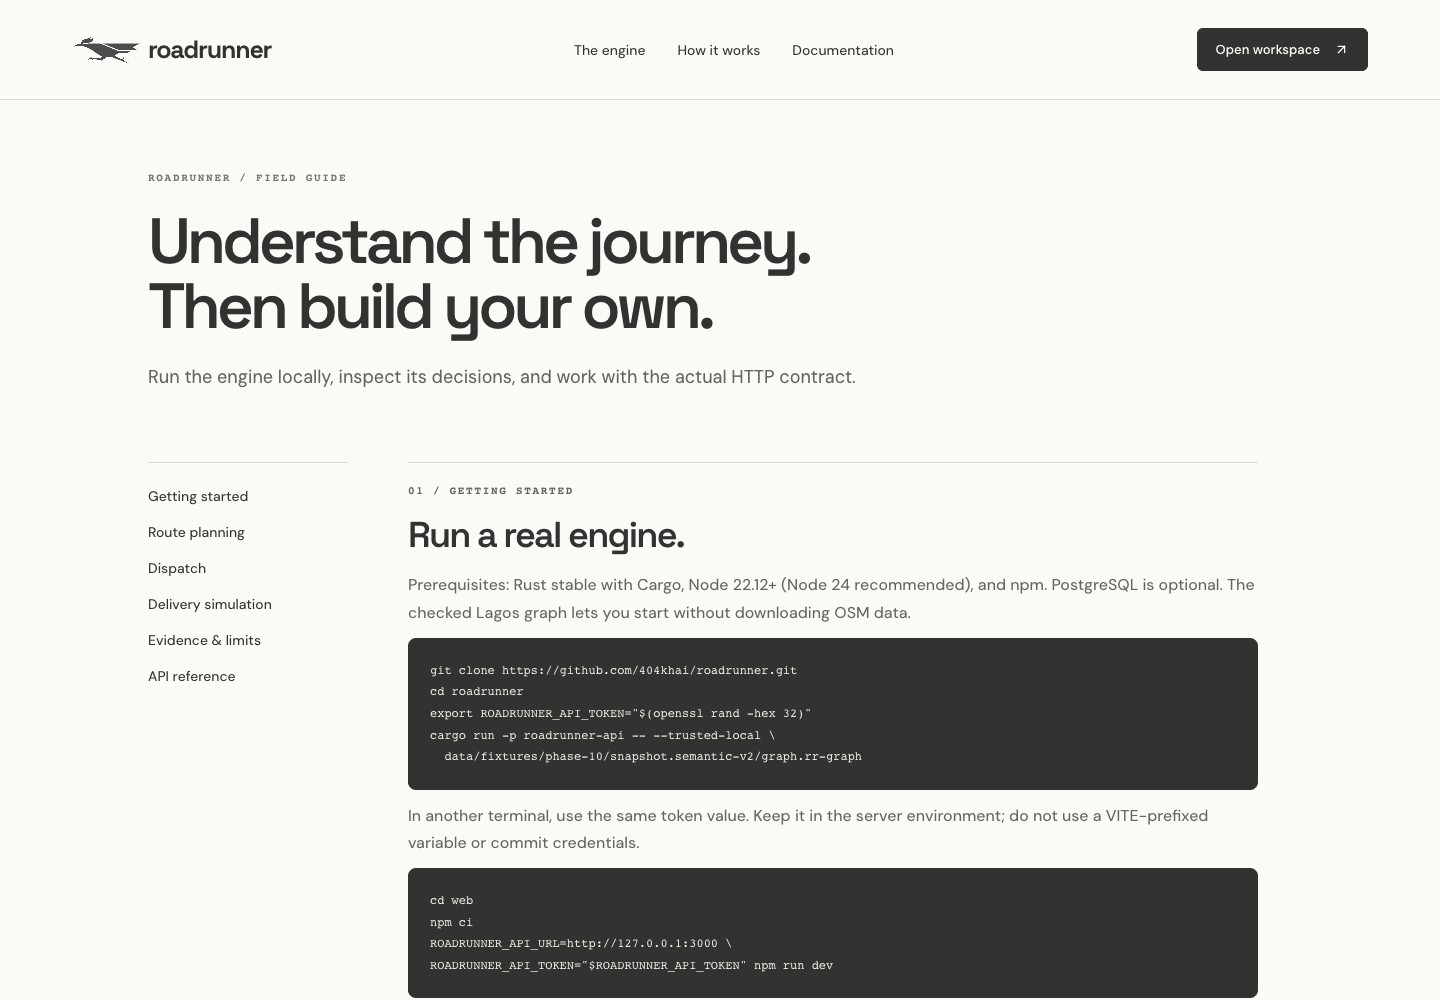
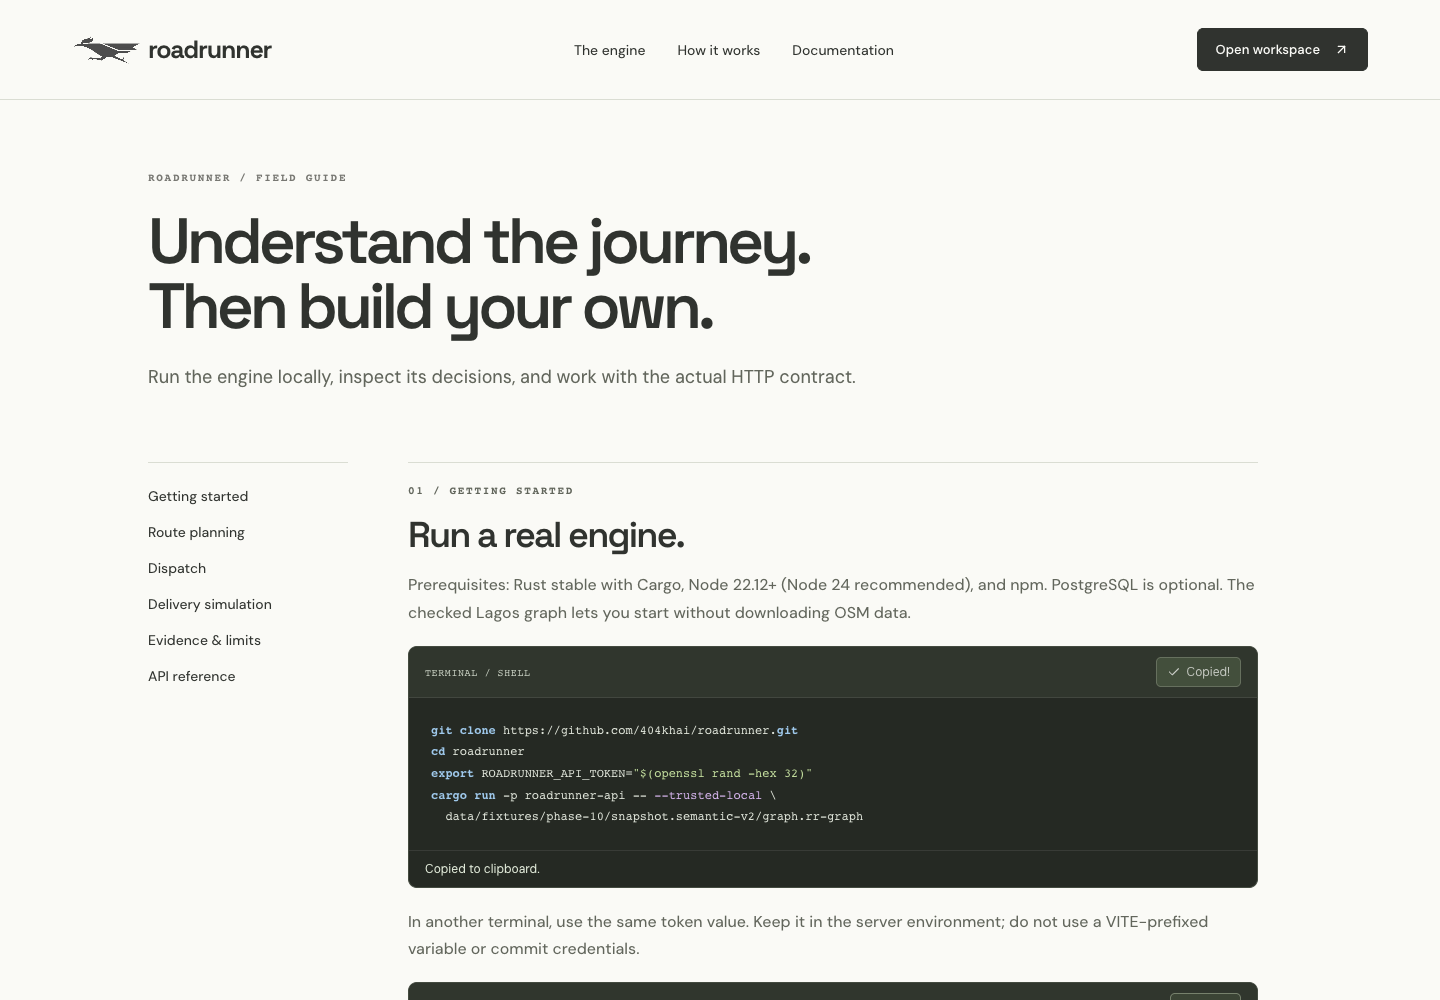
feat(docs): add syntax colors and copy controls

Changed region(s): [[0.2812, 0.62, 0.875, 1.0]]

diff --git a/web/src/Documentation.tsx b/web/src/Documentation.tsx
@@ -1,4 +1,5 @@
 import { useEffect, useState } from "react";
+import { CodeBlock } from "./CodeBlock";
 const repository = "https://github.com/404khai/roadrunner";
 type OpenApi = {
   paths: Record<
@@ -73,25 +74,21 @@ export function Documentation() {
               recommended), and npm. PostgreSQL is optional. The checked Lagos
               graph lets you start without downloading OSM data.
             </p>
-            <pre>
-              <code>
-                {
-                  'git clone https://github.com/404khai/roadrunner.git\ncd roadrunner\nexport ROADRUNNER_API_TOKEN="$(openssl rand -hex 32)"\ncargo run -p roadrunner-api -- --trusted-local \\\n  data/fixtures/phase-10/snapshot.semantic-v2/graph.rr-graph'
-                }
-              </code>
-            </pre>
+            <CodeBlock language="shell">
+              {
+                'git clone https://github.com/404khai/roadrunner.git\ncd roadrunner\nexport ROADRUNNER_API_TOKEN="$(openssl rand -hex 32)"\ncargo run -p roadrunner-api -- --trusted-local \\\n  data/fixtures/phase-10/snapshot.semantic-v2/graph.rr-graph'
+              }
+            </CodeBlock>
             <p>
               In another terminal, use the same token value. Keep it in the
               server environment; do not use a VITE-prefixed variable or commit
               credentials.
             </p>
-            <pre>
-              <code>
-                {
-                  'cd web\nnpm ci\nROADRUNNER_API_URL=http://127.0.0.1:3000 \\\nROADRUNNER_API_TOKEN="$ROADRUNNER_API_TOKEN" npm run dev'
-                }
-              </code>
-            </pre>
+            <CodeBlock language="shell">
+              {
+                'cd web\nnpm ci\nROADRUNNER_API_URL=http://127.0.0.1:3000 \\\nROADRUNNER_API_TOKEN="$ROADRUNNER_API_TOKEN" npm run dev'
+              }
+            </CodeBlock>
             <p>
               Open the Vite URL shown in the terminal. Landing demos replay
               retained engine output without an API. Open a workspace to compute
@@ -262,13 +259,11 @@ export function Documentation() {
               do not infer a write request from a read response.
             </p>
             <h3>First request</h3>
-            <pre>
-              <code>
-                {
-                  'curl http://127.0.0.1:3000/v1/state \\\n  -H "Authorization: Bearer $ROADRUNNER_API_TOKEN"\n\n# Inspect graph-bound anchors before building a route request\ncurl http://127.0.0.1:3000/v1/visualization/anchors \\\n  -H "Authorization: Bearer $ROADRUNNER_API_TOKEN"'
-                }
-              </code>
-            </pre>
+            <CodeBlock language="shell">
+              {
+                'curl http://127.0.0.1:3000/v1/state \\\n  -H "Authorization: Bearer $ROADRUNNER_API_TOKEN"\n\n# Inspect graph-bound anchors before building a route request\ncurl http://127.0.0.1:3000/v1/visualization/anchors \\\n  -H "Authorization: Bearer $ROADRUNNER_API_TOKEN"'
+              }
+            </CodeBlock>
             <p>
               <a href="/demos/route-request.json" download>
                 Download a concrete fixture route request
@@ -325,9 +320,9 @@ export function Documentation() {
                             {operation.description && (
                               <p>{operation.description}</p>
                             )}
-                            <pre>
-                              <code>{JSON.stringify(operation, null, 2)}</code>
-                            </pre>
+                            <CodeBlock language="json">
+                              {JSON.stringify(operation, null, 2)}
+                            </CodeBlock>
                           </details>
                         )),
                     )}
@@ -342,9 +337,9 @@ export function Documentation() {
                   ([name, schema]) => (
                     <details key={name} id={"schema-" + name}>
                       <summary>{name}</summary>
-                      <pre>
-                        <code>{JSON.stringify(schema, null, 2)}</code>
-                      </pre>
+                      <CodeBlock language="json">
+                        {JSON.stringify(schema, null, 2)}
+                      </CodeBlock>
                     </details>
                   ),
                 )}

diff --git a/web/src/CodeBlock.tsx b/web/src/CodeBlock.tsx
@@ -1,0 +1,84 @@
+import { useEffect, useRef, useState } from "react";
+import { Check, Copy } from "lucide-react";
+
+export function CodeBlock({
+  children,
+  language = "shell",
+}: {
+  children: string;
+  language?: "shell" | "json";
+}) {
+  const [state, setState] = useState<"idle" | "copied" | "error">("idle");
+  const timeout = useRef<ReturnType<typeof setTimeout> | undefined>(undefined);
+  useEffect(() => () => clearTimeout(timeout.current), []);
+  async function copy() {
+    clearTimeout(timeout.current);
+    try {
+      await navigator.clipboard.writeText(children);
+      setState("copied");
+      timeout.current = setTimeout(() => setState("idle"), 2000);
+    } catch {
+      setState("error");
+    }
+  }
+  const tokens = children.split(
+    /("(?:\\.|[^"\\])*"(?=\s*:)|"(?:\\.|[^"\\])*"|'[^']*'|#[^\n]*|\$[A-Za-z_][A-Za-z0-9_]*|--[\w-]+|\b(?:true|false|null|\d+(?:\.\d+)?)\b|\b(?:git|cd|cargo|npm|curl|export|run|ci|dev|clone)\b)/g,
+  );
+  return (
+    <div className="code-block">
+      <div className="code-toolbar">
+        <span>
+          {language === "shell" ? "TERMINAL / SHELL" : "JSON / CONTRACT"}
+        </span>
+        <button
+          type="button"
+          onClick={() => void copy()}
+          aria-label={state === "copied" ? "Code copied" : "Copy code"}
+        >
+          {state === "copied" ? <Check size={14} /> : <Copy size={14} />}{" "}
+          {state === "copied" ? "Copied!" : "Copy"}
+        </button>
+      </div>
+      <pre>
+        <code>
+          {tokens.map((token, i) => {
+            const kind =
+              language === "json"
+                ? token.startsWith('"')
+                  ? /^\s*:/.test(tokens[i + 1] ?? "")
+                    ? "key"
+                    : "string"
+                  : /^(true|false|null|\d)/.test(token)
+                    ? "value"
+                    : "plain"
+                : token.startsWith("#")
+                  ? "comment"
+                  : /^["']/.test(token)
+                    ? "string"
+                    : token.startsWith("$")
+                      ? "variable"
+                      : token.startsWith("--")
+                        ? "flag"
+                        : /^(git|cd|cargo|npm|curl|export|run|ci|dev|clone)$/.test(
+                              token,
+                            )
+                          ? "command"
+                          : "plain";
+            return (
+              <span key={i} className={"syntax-" + kind}>
+                {token}
+              </span>
+            );
+          })}
+        </code>
+      </pre>
+      <span className="copy-status" role="status">
+        {state === "error"
+          ? "Clipboard unavailable. Select the code to copy it manually."
+          : state === "copied"
+            ? "Copied to clipboard."
+            : ""}
+      </span>
+    </div>
+  );
+}

diff --git a/web/tests/CodeBlock.test.tsx b/web/tests/CodeBlock.test.tsx
@@ -1,0 +1,44 @@
+// @vitest-environment jsdom
+import "@testing-library/jest-dom/vitest";
+import { afterEach, expect, it, vi } from "vitest";
+import { cleanup, fireEvent, render, screen } from "@testing-library/react";
+import { CodeBlock } from "../src/CodeBlock";
+afterEach(() => {
+  cleanup();
+  vi.unstubAllGlobals();
+});
+it("copies exact command bytes, including quotes, environment variables and newlines", async () => {
+  const writeText = vi.fn().mockResolvedValue(undefined);
+  vi.stubGlobal("navigator", { clipboard: { writeText } });
+  const command =
+    '# Start the engine\nexport TOKEN="keep $VALUE literal"\ncargo run -- --trusted-local graph';
+  const { container } = render(<CodeBlock>{command}</CodeBlock>);
+  expect(container.querySelector("code")?.textContent).toBe(command);
+  expect(container.querySelector(".syntax-command")).toHaveTextContent(
+    "export",
+  );
+  fireEvent.click(screen.getByRole("button", { name: "Copy code" }));
+  await screen.findByRole("button", { name: "Code copied" });
+  expect(writeText).toHaveBeenCalledWith(command);
+});
+it("keeps JSON intact and reports clipboard failures without a false success", async () => {
+  vi.stubGlobal("navigator", {
+    clipboard: { writeText: vi.fn().mockRejectedValue(Error("denied")) },
+  });
+  const json = JSON.stringify(
+    { request: "<script>literal</script>", enabled: true },
+    null,
+    2,
+  );
+  const { container } = render(<CodeBlock language="json">{json}</CodeBlock>);
+  expect(container.querySelector("code")?.textContent).toBe(json);
+  expect(container.querySelector("script")).toBeNull();
+  expect(container.querySelector(".syntax-key")).toHaveTextContent('"request"');
+  fireEvent.click(screen.getByRole("button", { name: "Copy code" }));
+  await screen.findByText(
+    "Clipboard unavailable. Select the code to copy it manually.",
+  );
+  expect(
+    screen.queryByRole("button", { name: "Code copied" }),
+  ).not.toBeInTheDocument();
+});

diff --git a/web/src/site.css b/web/src/site.css
@@ -917,3 +917,81 @@ body[data-surface="site"] {
 .site .demo-stage .camera-gizmo {
   right: 58px;
 }
+.site .code-block {
+  position: relative;
+  margin: 20px 0;
+  background: #252923;
+  border: 1px solid #444b40;
+  border-radius: 9px;
+  overflow: hidden;
+}
+.site .code-toolbar {
+  display: flex;
+  align-items: center;
+  justify-content: space-between;
+  gap: 14px;
+  padding: 10px 16px;
+  border-bottom: 1px solid #ffffff16;
+  background: #30362d;
+  color: #c8d0c2;
+  font:
+    10px ui-monospace,
+    monospace;
+  letter-spacing: 0.06em;
+}
+.site .code-toolbar button {
+  display: inline-flex;
+  align-items: center;
+  gap: 6px;
+  padding: 6px 10px;
+  border: 1px solid #76816c;
+  border-radius: 5px;
+  background: #3b4435;
+  color: #f3f6ef;
+  font:
+    12px "DM Sans Variable",
+    sans-serif;
+  letter-spacing: 0;
+}
+.site .code-toolbar button:hover {
+  background: #4a5742;
+}
+.site .code-block pre {
+  margin: 0;
+  border-radius: 0;
+  background: transparent;
+  color: #e1e6db;
+}
+.site .syntax-command {
+  color: #9fc9ec;
+  font-weight: 600;
+}
+.site .syntax-string {
+  color: #c4df9e;
+}
+.site .syntax-variable {
+  color: #e9c886;
+}
+.site .syntax-flag {
+  color: #d6b5ed;
+}
+.site .syntax-comment {
+  color: #a2b29a;
+  font-style: italic;
+}
+.site .syntax-key {
+  color: #9fd6e0;
+}
+.site .syntax-value {
+  color: #f0c58e;
+}
+.site .copy-status {
+  display: block;
+  color: #e0e9d8;
+  font-size: 12px;
+  padding: 0 16px;
+}
+.site .copy-status:not(:empty) {
+  padding: 10px 16px;
+  border-top: 1px solid #ffffff16;
+}

diff --git a/docs/landing-page.md b/docs/landing-page.md
@@ -82,7 +82,7 @@ portrait identity. Existing renderer/evidence tests remain applicable. Browser c
 and the final verification results are retained under `docs/evidence/landing-page`.
 Guide screenshots in `web/public/docs/{delivery,dispatch,routing}.png` are actual running workspaces. The bento uses the user-supplied immersive, perspective dispatch and alternatives screenshots from `references`, copied as `engine-*.png`; these are reference captures, not new browser-verification evidence.
 
-Final checks: 79/79 frontend tests in 19 files passed using one worker and a 15-second
+Final checks: 81/81 frontend tests in 20 files passed using one worker and a 15-second
 per-test timeout on this busy host; initial parallel runs hit existing interaction-test
 timeouts. Lint, format, production build and public-reference drift check passed.
 The build retains Vite's large-chunk advisory for the MapLibre/3D workspace bundle.
@@ -97,3 +97,5 @@ not a load test or a claim of physical device telemetry.
 The delivery mini-view exposes overhead, perspective 2.5D and immersive 3D via the existing renderer. Scene controls expose follow, buildings, route reveal and explicitly labeled synthetic ambient actors. Camera mode changes do not reset the evidence clock or rider identity.
 
 User-requested follow-up verified automatic playback and paused-time preservation when switching the mini-view to perspective and immersive modes. See [mini perspective](evidence/landing-page/mini-perspective.png), [mini 3D](evidence/landing-page/mini-3d.png), and [mobile 3D](evidence/landing-page/mini-3d-mobile.png). Delivery playback spans the captured event interval through its final retained frame, rather than padding the demonstration with the scenario’s idle configured horizon.
+
+Every shell snippet, API operation and schema code block includes a copy control and syntax coloring. Copying preserves exact source bytes; success and clipboard-denial states are announced. Browser verification confirmed exact clipboard content and no mobile horizontal overflow. See [mobile copy controls](evidence/landing-page/docs-copy-mobile.png). React text rendering keeps example markup inert.
